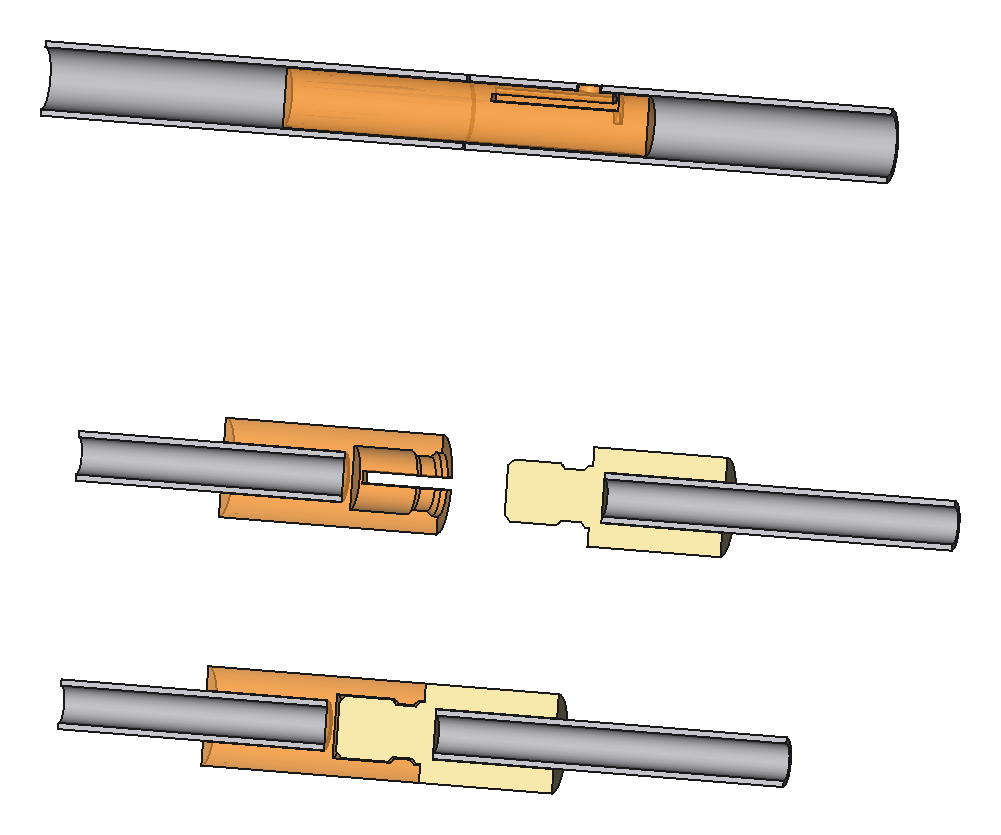
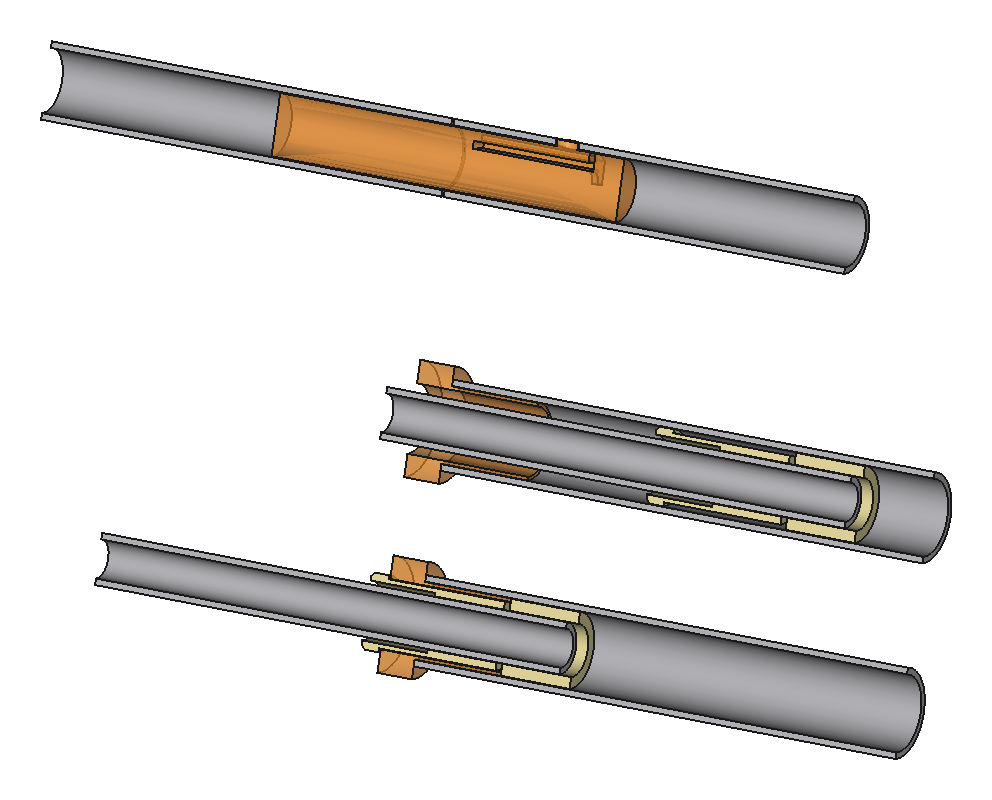
Make the loader's rams telescopic with a printed latch
Replace the two-half snap rams with telescopes: outer alu 14 x 1 x 267 glued
in the comb's boss, inner 8 x 1 x 287 carrying the cup. A printed nose
(bore 10.8) on the outer, a stop collar (11.8) and a split latch whose nubs
(11.8) spring out under the nose on the inner: shake the comb cups-down and
every ram drops and clicks; the nubs take the push on the nose's face
(16 mm2, 6 MPa at 100 N). Pinch the nubs to shut it.

Shut, the comb with rams is 299 mm (legs still set the folded 317 x 242 x
186). The inner tube, 266 mm out of the nose, buckles at 1319 N. Loader mass
goes to 1.9 / 2.1 kg (16 / 19). All 23 checks OK.

Claude-Session: https://claude.ai/code/session_019syE6ttESDH6uSAJwjVZ4b

diff --git a/docs/loader.md b/docs/loader.md
@@ -9,7 +9,7 @@
 В модуле v4.4 сзади ствола стоит клапан (кольцо седла с носиком и диафрагма), казённика нет. Пулька
 досылается до носика седла, туда, где её рисует модель модуля (`ball`): это 271.7 мм от торца ствола.
 Дульные насадки (215 мм, канал Ø30) на митральезе остаются, поэтому шомпол проходит ещё и их, итого 487 мм
-от торца насадки. Шомпол должен быть жёстким на всю эту длину. Телескоп сделал бы зарядник короче только в
+от торца насадки. Шомпол должен быть жёстким на всю эту длину. Телескоп (см. «Складывание») делает его короче только в
 переноске, в работе длина та же. Поэтому зарядник длинный: 961 мм от концов направляющих до верха ручек,
 651 мм перед торцами насадок.
 
@@ -25,7 +25,7 @@
 | колпачок ножки | 4, общие | печать: не даёт гребёнке соскочить с ножек вперёд |
 | вафля | на 16 или на 19 | печать, 30 мм: гнездо Ø24.2 на ствол, в нём три ребра до Ø23.0 держат пульку (0.8 мм натяга). Сзади выточка Ø32.6 × 6 садится на торец насадки, поэтому гнездо стоит на оси канала. Четыре ушка скользят по ножкам |
 | гребёнка | на 16 или на 19 | печатная плита 12 мм с бобышками под шомполы, длинными ушками на ножках и двумя боковыми лапками под ручки |
-| шомпол | 16 или 19 | алюминиевая трубка 8 × 1, две половины 262 и 268 мм на муфте, верхняя вклеена в бобышку |
+| шомпол | 16 или 19 | телескоп: наружная алюминиевая трубка 14 × 1 × 267 мм вклеена в бобышку, внутренняя 8 × 1 × 287 мм выдвигается из неё и держится защёлкой. Печатные детали на шомпол: нос, стопорное кольцо, защёлка |
 | чашечка | 16 или 19 | печать, Ø22.5 на конце шомпола: 0.65 мм на сторону в канале Ø23.8. Широкая, потому что мягкая пулька обтекает тонкий пруток (стеклопластиковый пруток на пробе прокручивался и уходил мимо неё). Неглубокая лунка 1.5 мм держит пульку по центру в свободной насадке, скошенный нос находит раструб насадки в ствол |
 | ручка | 2, общие | печать, Ø26 × 100, стоит вперёд на лапке гребёнки, по винту M5 |
 
@@ -33,33 +33,38 @@
 чашечка останавливается в 1 мм от того места, где пулька лежит на носике седла. Вафлю можно набить
 заранее и носить несколько, как обоймы.
 
-Вес по модели: 1.7 кг на 16 и 1.8 кг на 19 (вафля и гребёнка при 0.6 г/см³). Из них шомполы 0.5–0.6 кг,
+Вес по модели: 1.9 кг на 16 и 2.1 кг на 19 (вафля и гребёнка при 0.6 г/см³). Из них шомполы 0.75–0.9 кг,
 ножки 0.3 кг.
 
 ## Складывание
 
 Для переноски зарядник складывается, стыки на печатных защёлках, клея и резинок в них нет.
 
-- **Шомпол из двух половин.** Стык там, где нижняя половина с чашечкой (272 мм от носа чашечки) равна
-  гребёнке с верхней половиной. На конце верхней половины вклеен «папа»: муфта Ø16 с хвостовиком Ø10 и
-  канавкой Ø8.4. На нижней половине вклеена «мама»: муфта Ø16 с гнездом Ø10.3, его стенки прорезаны
-  пазом 2 мм на два лепестка, у края гнезда губка Ø8.8. Вставил — лепестки разошлись на 0.6 мм, губка
-  щёлкнула в канавку. Потянул с силой — вышла: обе стороны губки скошены под 45°. Усилие разъёма надо
-  подобрать на первой паре (глубина губки). В работе стык идёт в насадке и в стволе, там муфте Ø16
-  остаётся 3.9 мм на сторону, и лепестки не разойдутся.
+- **Шомпол — телескоп с защёлкой.** Наружная трубка 14 × 1 вклеена в бобышку гребёнки, на её нижнем конце
+  вклеен печатный нос: фланец Ø18 и канал Ø10.8. Через нос ходит внутренняя трубка 8 × 1 с чашечкой. На её
+  верхнем конце вклеено стопорное кольцо Ø11.8: через канал носа оно не проходит, и внутренняя трубка не
+  выпадает. Под ним вклеена защёлка: два лепестка (паз 3 мм), на каждом зуб до Ø11.8. Когда шомпол
+  выдвигается, зубы проходят канал по скосу 45° и выскакивают под носом. Тогда нос зажат между кольцом и
+  зубами, а при досылке зубы упираются в его торец плоской стороной: опора 0.5 мм на сторону, 16 мм² на
+  шомпол, 6 МПа при 100 Н. Лепесткам хватает 0.6 мм зазора, чтобы утопить зубы на 0.5.
+  - Разложить: держать гребёнку чашечками вниз и встряхнуть. Все шомполы выпадут до кольца и щёлкнут.
+  - Сложить: сжать зубы пальцами под носом и задвинуть внутреннюю трубку. У сложенного шомпола чашечка
+    стоит у носа, а кольцо выходит из бобышки на 4 мм. Гребёнка с шомполами — 299 мм.
+  - Усилие защёлки надо подобрать на первом шомполе (высота зуба, `TELE["nub"]`).
 - **Ножка из трёх частей по 288 мм.** В нижнюю часть стыка вклеена печатная втулка Ø9.7 × 60. Её верхняя
   половина входит в следующую часть, а лепесток с пипкой Ø3.6 щёлкает в отверстие Ø4, просверленное в
   стенке в 20 мм от торца. Пипка на 0.1 мм ниже поверхности трубки, так что ушки гребёнки и вафли едут
   поверх неё. Чтобы разобрать, утопить пипку пальцем и потянуть.
 - Ручки откручиваются (по M5), вафля идёт отдельно.
 
-Сложенный, без вафли: 317 × 242 × 182 мм (по модели, `folded` в отчёте). Собирается за минуту.
+Сложенный, без вафли: 317 × 242 × 186 мм (по модели, `folded` в отчёте). Собирается за минуту.
 
-![Стыки: ножка (вверху), шомпол разобран и собран (разрез)](img/loader_joints.png)
+![Стыки (разрез): ножка вверху; шомпол сложен (зубы сжаты) в середине; выдвинут и защёлкнут внизу](img/loader_joints.png)
 
 ## Порядок зарядки
 
-1. Разложить зарядник: соединить шомполы и ножки, прикрутить ручки.
+1. Разложить зарядник: соединить ножки, прикрутить ручки, встряхнуть гребёнку чашечками вниз, чтобы
+   все шомполы щёлкнули.
 2. Отпустить гашетку и открыть ключом кран сброса. Две заряженные наперёд камеры стравятся через свои
    отверстия ([`rotor.md`](rotor.md)), перед дулами становится безопасно.
 3. Поставить митральезу дулом вверх. Надеть вафлю на ножки со стороны пяток, вставить пятки в
@@ -84,8 +89,8 @@
 открывается назад, неизвестно.
 
 Трение тугой пульки в канале не мерили. В расчёте `RAM_LOAD` = 100 Н на пульку: 47 Н воздуха и столько
-же на трение. Шомпол 8 × 1 при этом держит с запасом 3.6 (продольный изгиб при 360 Н, конец шомпола
-ведёт канал). Но вся гребёнка тогда требует 1600 Н на 16 и 1900 Н на 19, а это втрое больше, чем
+же на трение. Внутренняя трубка 8 × 1 при этом держит с запасом 13 (продольный изгиб при 1319 Н: из носа она торчит на
+266 мм, конец ведёт канал). Но вся гребёнка тогда требует 1600 Н на 16 и 1900 Н на 19, а это втрое больше, чем
 дадут руки с весом тела (~500 Н). Поэтому сначала надо измерить силу на одном стволе
 ([`human-todo.md`](human-todo.md)). Если выйдет больше ~25–30 Н на пульку, на гребёнку ставится
 храповой привод от пистолета для герметика (10–18 : 1). Рамка, вафля и гребёнка для него те же, но

diff --git a/docs/status.md b/docs/status.md
@@ -83,7 +83,7 @@
 | `rotor_timing.py` | **живое** | Ротор концепта A на бумаге (обычный Python): кулачки, силы, фазы и темп, рисует `docs/img/rotor_timing.svg`. Эскиз берёт числа отсюда. |
 | `head_bench.py` | **ждёт** | Стенд Б: один порт головки концепта A на ручном ползуне, с модулем v4.4 (`docs/test-plan.md`). |
 | `rotor_bench.py` | **ждёт** | Стенд В v2: настоящий ротор на 16 под четвертью блока головки (4 порта); с `ROTOR_N = 19` — ротор, диск и блоки головки на 19 (`docs/rotor.md`, «Головка на 19 стволов»), ручка через конические 1:1 и 5:1, стопор на гашетке и проскальзывающая муфта вместо кулачковой муфты и храповика. Всё, кроме основания, рычага и коробки конических, — детали итоговой головки (`docs/rotor.md`, `docs/test-plan.md`). |
-| `loader.py` | **живое** | Съёмный зарядник: вафля с пульками садится на торцы дульных насадок, гребёнка из 16 или 19 шомполов 8 × 1 на четырёх ножках (они вставляются в концы направляющих каркаса) досылает все пульки до носика седла, ход 515 мм. Сила досылки не измерена (`docs/loader.md`). |
+| `loader.py` | **живое** | Съёмный зарядник: вафля с пульками садится на торцы дульных насадок, гребёнка из 16 или 19 телескопических шомполов (14 × 1 и 8 × 1, печатная защёлка) на четырёх ножках (они вставляются в концы направляющих каркаса) досылает все пульки до носика седла, ход 515 мм. Сила досылки не измерена (`docs/loader.md`). |
 | `rotor_cycle_gif.py` | **живое** | GIF цикла одного ствола (обычный Python + Pillow): кулачок в развёртке, толкатели, давления; пишет `exports/rotor_cycle/`. |
 
 ## Пистолет (`pistol/`)
